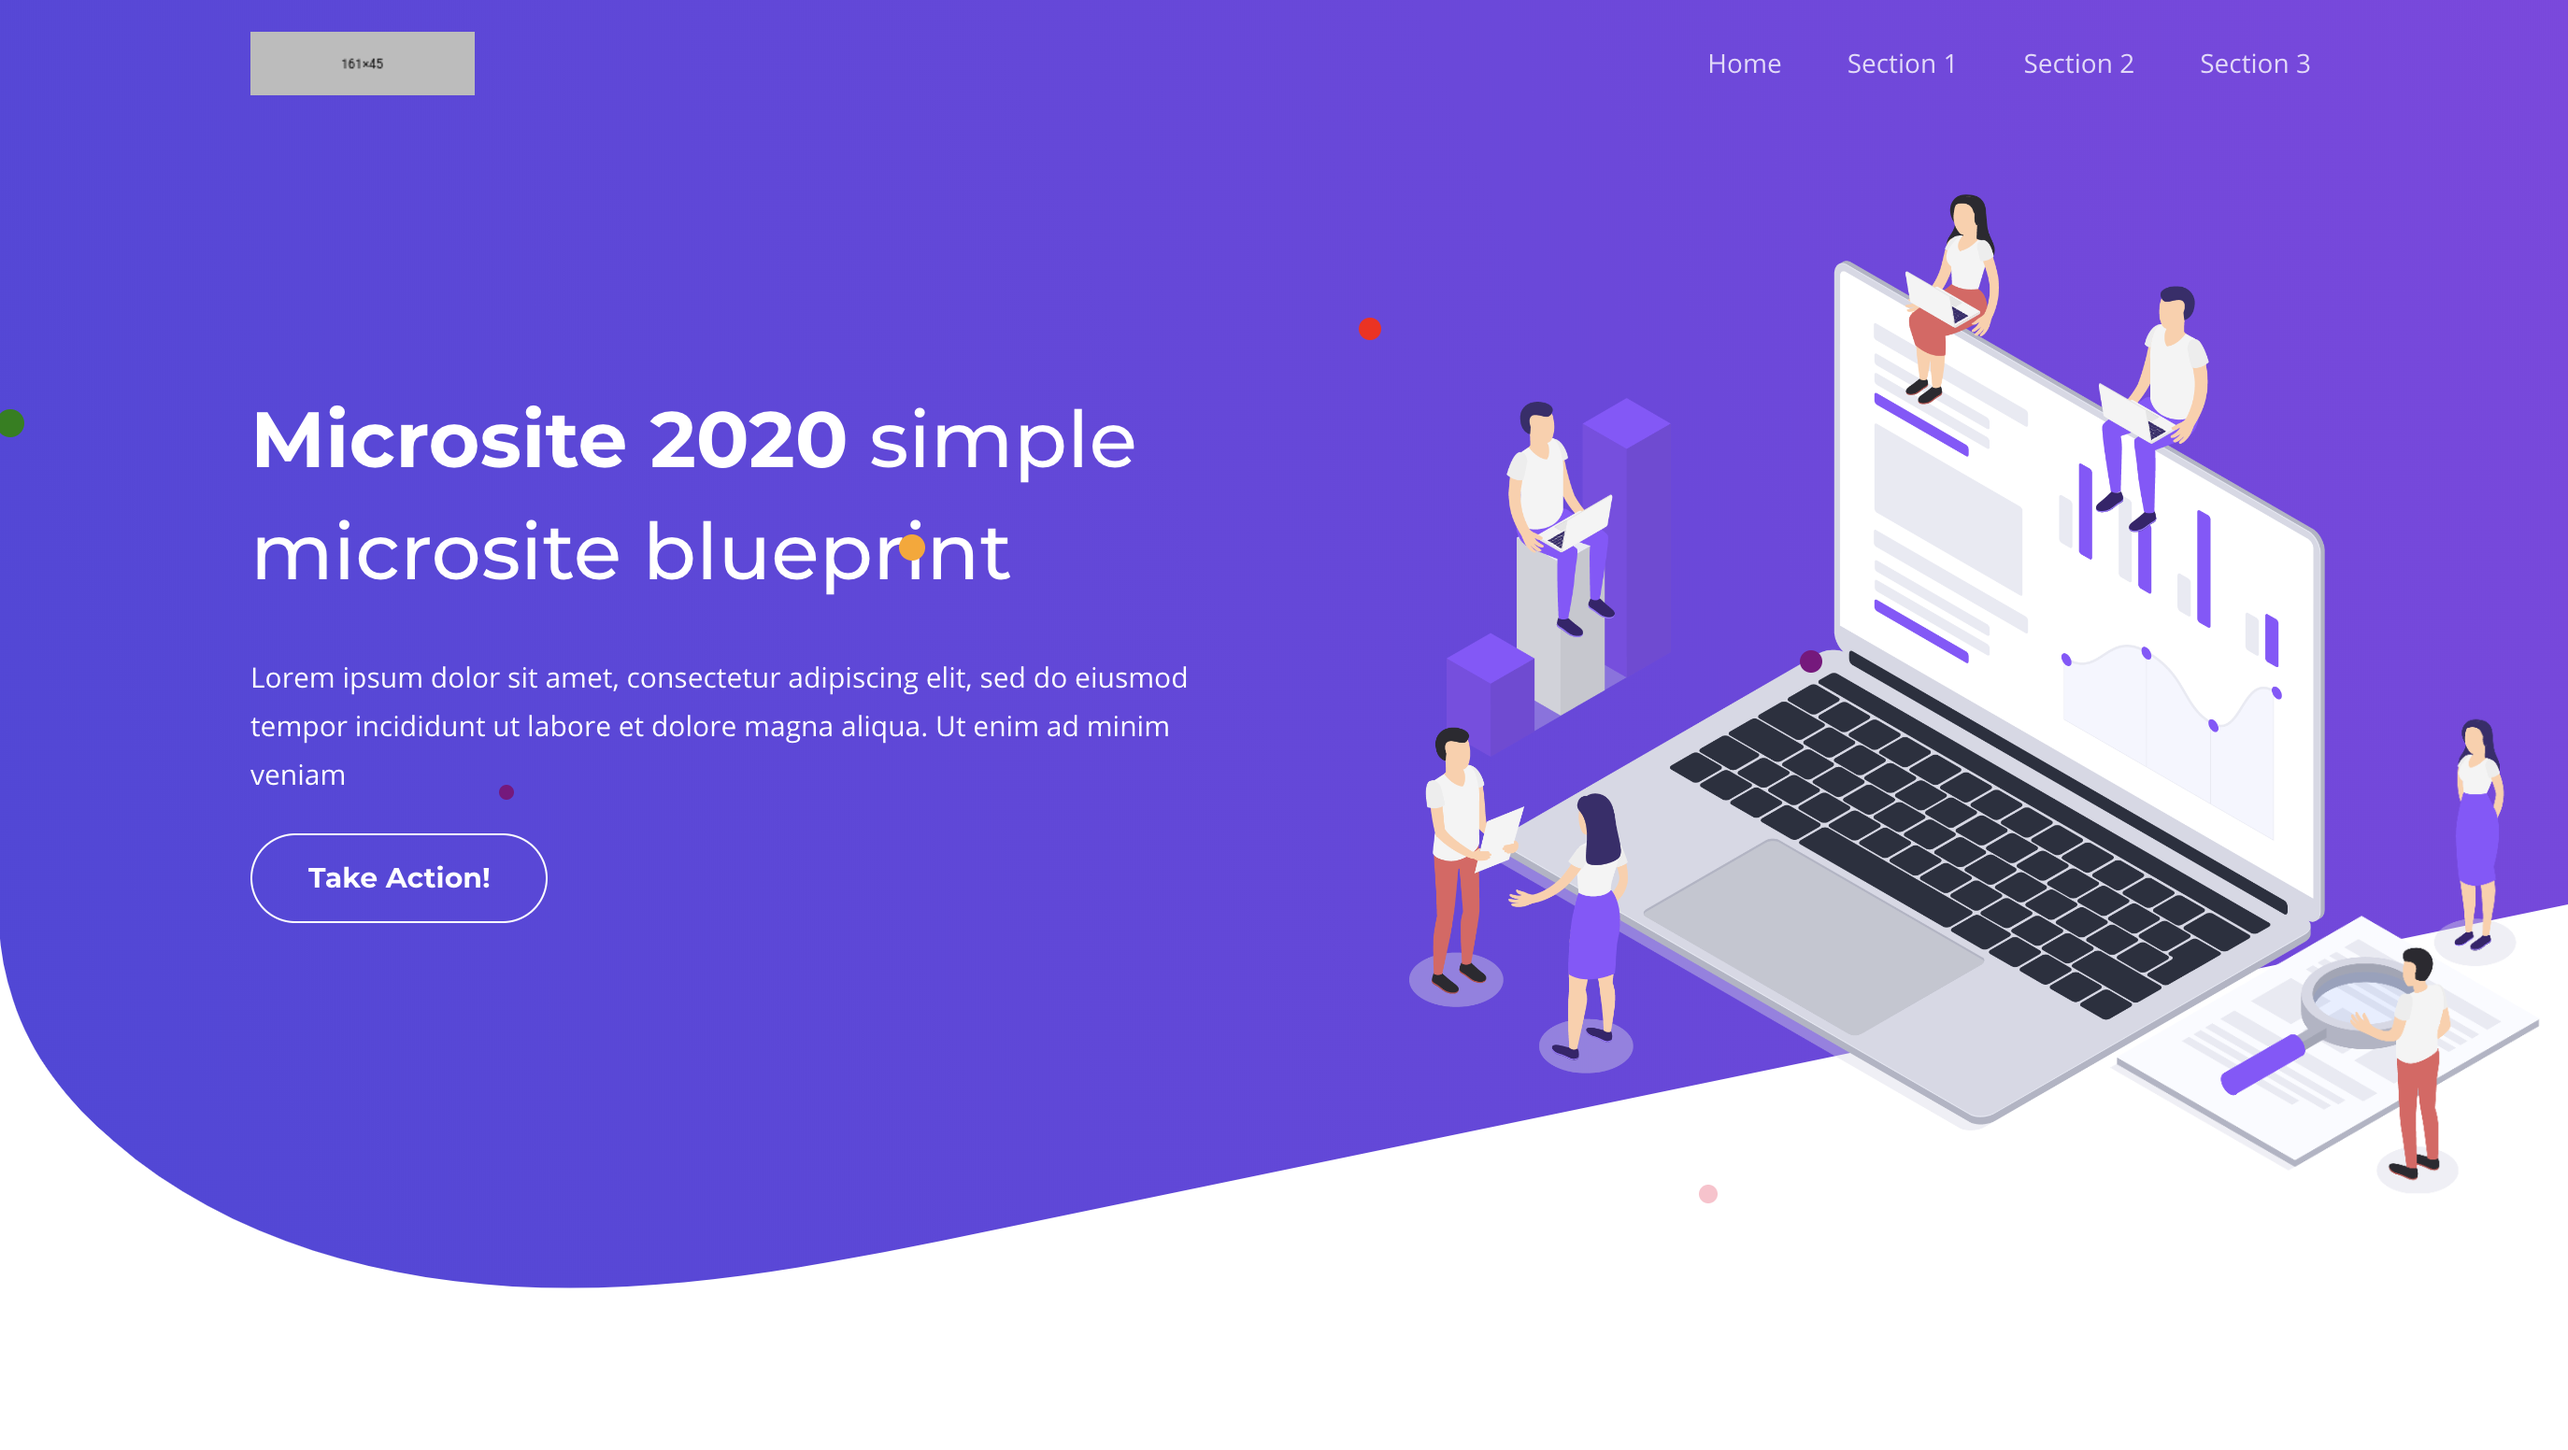
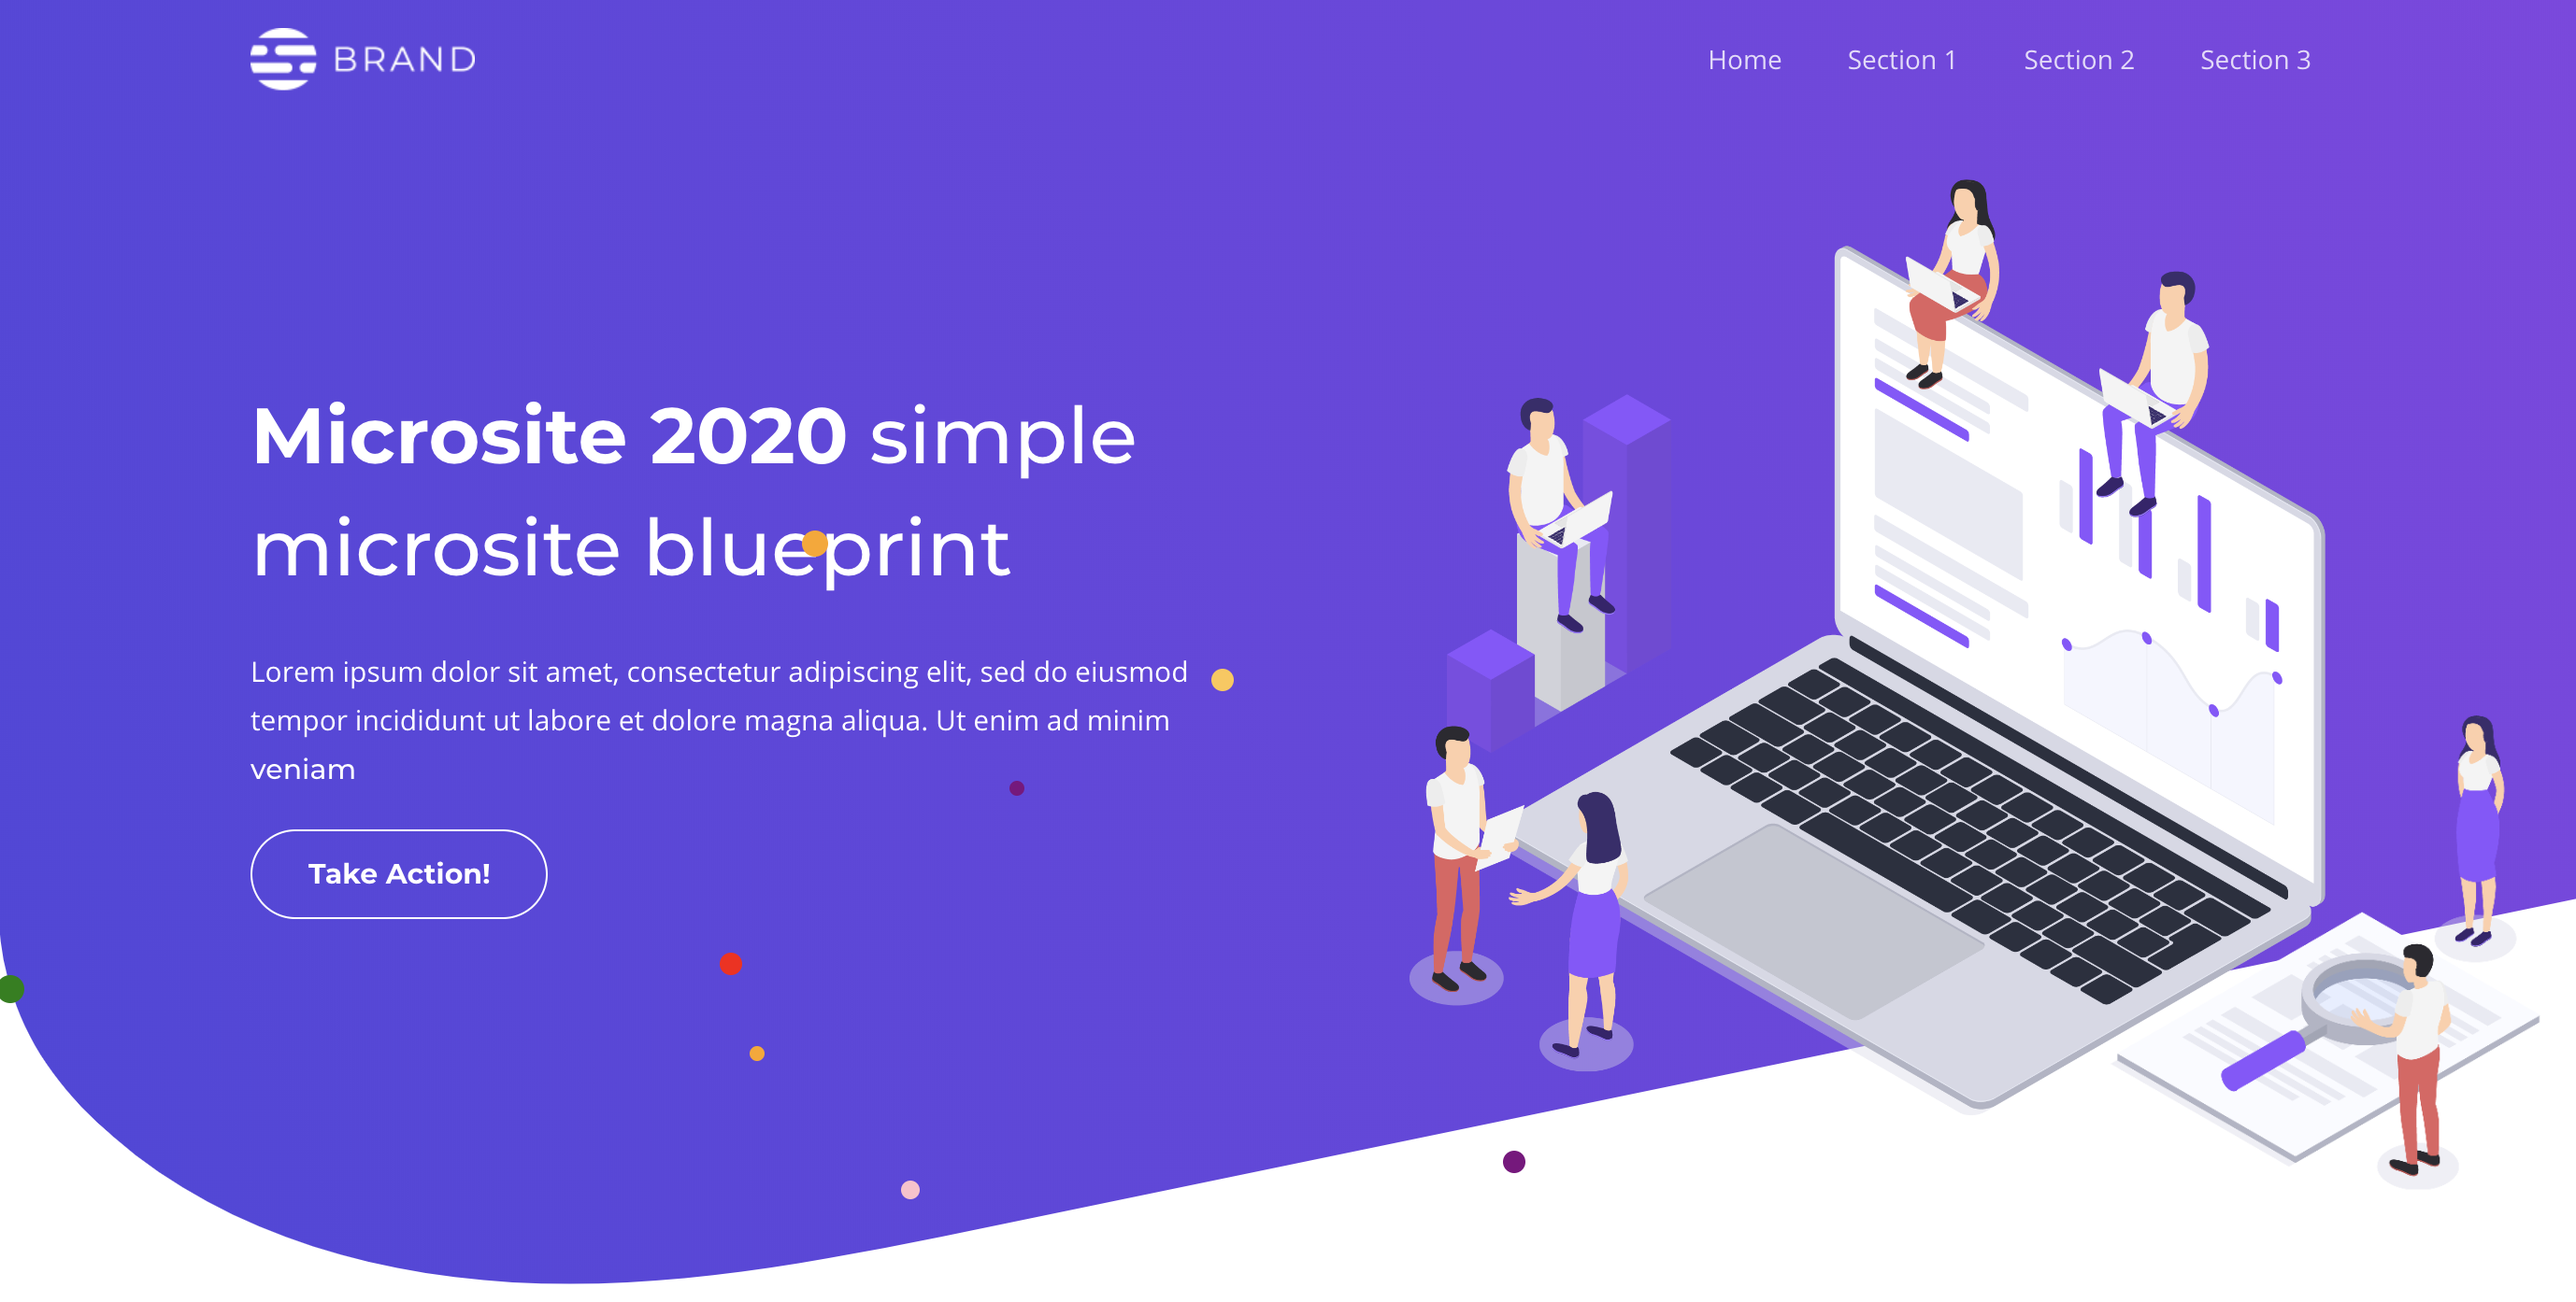
New screenshots and prep for 0.2.1 release

diff --git a/README.md b/README.md
@@ -21,6 +21,9 @@ Function1, Inc.
 https://function1.com
 #
 
+### Version 0.2.1 January 15, 2020
+New screenshots.
+
 ### Version 0.2.0 January 15, 2020
 Update plugin. 
 New screenshot.
